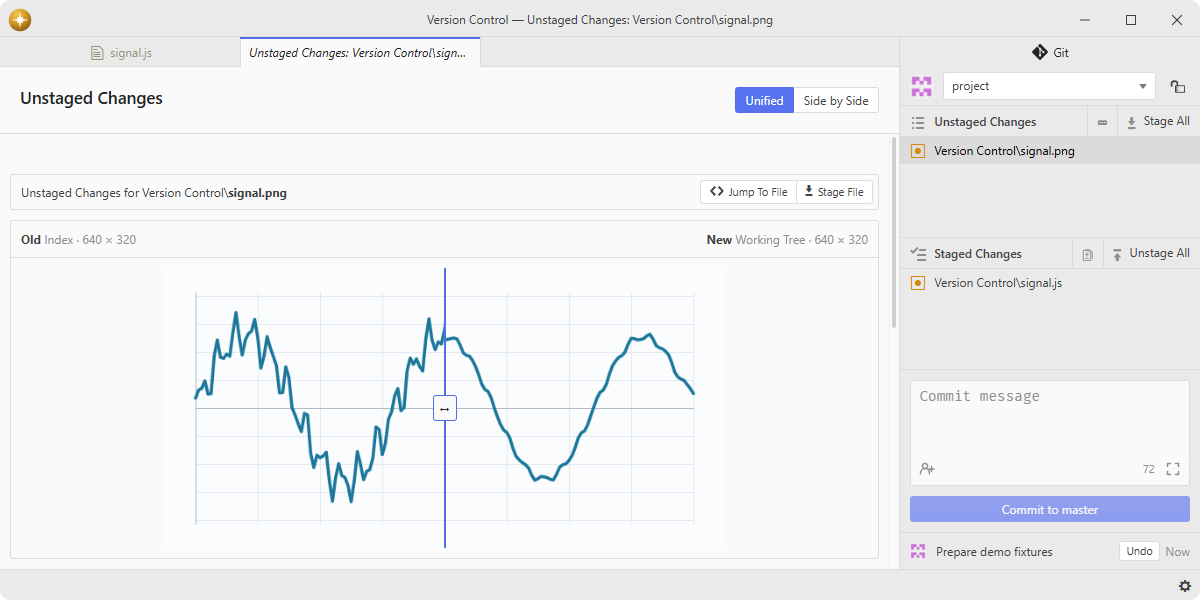
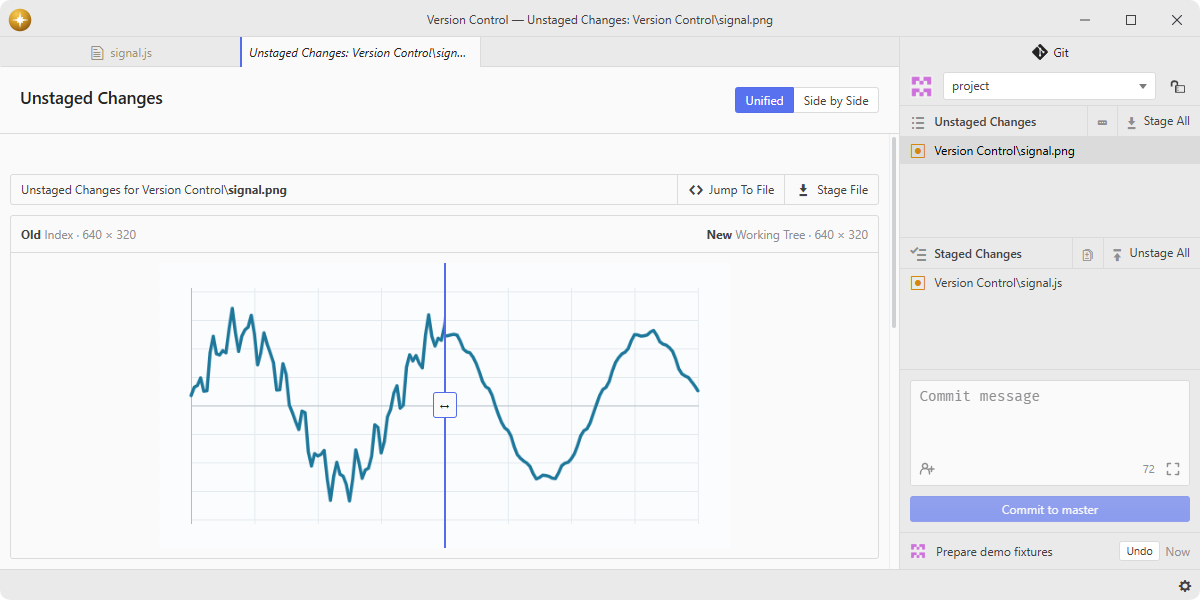
Integrate file actions into the diff header bars
Share flat action styling across file and hunk headers, preserve selected colors under Aura, and remove redundant text-button titles. Refresh package screenshots and capture metadata.

Validation: 73 focused specs, lint, formatting, dependency audit, package contents, and real hover/pressed checks in Aura and One.

diff --git a/styles/main.css b/styles/main.css
@@ -1682,7 +1682,7 @@ pre.git-panel-Message-description {
 .git-panel-FilePatchView-header {
   display: flex;
   flex-wrap: nowrap;
-  align-items: center;
+  align-items: stretch;
   border: 1px solid var(--base-border-color);
   border-radius: var(--ui-border-radius);
   font-family: var(--ui-font-family);
@@ -1691,26 +1691,23 @@ pre.git-panel-Message-description {
   background-color: var(--panel-heading-background-color);
   cursor: default;
 }
-.git-panel-FilePatchView-header .btn {
-  font-size: 0.9em;
+.git-panel-FilePatchHeaderView-button {
+  flex-shrink: 0;
+  white-space: nowrap;
 }
-.git-panel-FilePatchView-header .btn.icon-move-up::before,
-.git-panel-FilePatchView-header .btn.icon-move-down::before {
+.git-panel-FilePatchHeaderView-button.icon-move-up::before,
+.git-panel-FilePatchHeaderView-button.icon-move-down::before {
   font-size: 1em;
   margin-right: 0.5em;
 }
-.git-panel-FilePatchView-header .btn-group {
-  margin: calc(var(--ui-spacing) / 2);
-  flex-shrink: 0;
-  flex-wrap: nowrap;
-  white-space: nowrap;
-}
 .git-panel-FilePatchView-title {
   flex: 1;
+  min-width: 0;
+  line-height: 2.4;
   overflow: hidden;
   text-overflow: ellipsis;
   white-space: nowrap;
-  margin-left: var(--ui-spacing);
+  padding: 0 var(--ui-spacing);
 }
 .git-panel-FilePatchView-message {
   color: var(--syntax-text-color);
@@ -1734,7 +1731,7 @@ pre.git-panel-Message-description {
   padding: calc(var(--ui-spacing) / 1.5);
 }
 .git-panel-FilePatchView-collapseButton + .git-panel-FilePatchView-title {
-  margin-left: 0;
+  padding-left: 0;
 }
 .git-panel-FilePatchView-collapseButtonIcon:before {
   margin-right: 0;
@@ -2270,30 +2267,36 @@ pre.git-panel-Message-description {
   text-overflow: ellipsis;
   -webkit-font-smoothing: antialiased;
 }
-.git-panel-HunkHeaderView-title:hover {
-  background-color: color-mix(in srgb, var(--syntax-text-color) 4%, var(--syntax-background-color));
+.git-panel-HunkHeaderView-title:hover,
+.git-panel-DiffHeaderButton:enabled:is(:hover, :focus-visible) {
+  color: var(--git-panel-header-hover-color, var(--text-color));
+  background: var(--git-panel-header-hover-background, var(--background-color-highlight));
 }
-.git-panel-HunkHeaderView-title:active {
-  background-color: color-mix(in srgb, var(--syntax-text-color) 2%, var(--syntax-background-color));
+.git-panel-HunkHeaderView-title:active,
+.git-panel-DiffHeaderButton:enabled:active {
+  color: var(--git-panel-header-active-color, var(--text-color-selected));
+  background: var(--git-panel-header-active-background, var(--background-color-selected));
 }
-.git-panel-HunkHeaderView-stageButton,
-:is(.git-panel-HunkHeaderView-copyButton, .git-panel-HunkHeaderView-discardButton) {
+.git-panel-DiffHeaderButton {
+  height: auto;
   line-height: 1;
-  padding-left: var(--ui-spacing);
-  padding-right: var(--ui-spacing);
+  padding: 0 var(--ui-spacing);
   font-family: var(--ui-font-family);
+  font-size: inherit;
   border: none;
   border-left: inherit;
-  background-color: transparent;
+  border-radius: 0;
+  color: inherit;
+  background: transparent;
   cursor: default;
 }
-.git-panel-HunkHeaderView-stageButton:hover,
-:is(.git-panel-HunkHeaderView-copyButton, .git-panel-HunkHeaderView-discardButton):hover {
-  background-color: color-mix(in srgb, var(--syntax-text-color) 4%, var(--syntax-background-color));
+.git-panel-DiffHeaderButton:last-of-type {
+  border-top-right-radius: inherit;
+  border-bottom-right-radius: inherit;
 }
-.git-panel-HunkHeaderView-stageButton:active,
-:is(.git-panel-HunkHeaderView-copyButton, .git-panel-HunkHeaderView-discardButton):active {
-  background-color: color-mix(in srgb, var(--syntax-text-color) 2%, var(--syntax-background-color));
+.git-panel-DiffHeaderButton:focus-visible {
+  outline: 2px auto var(--accent-indicator-color);
+  outline-offset: -2px;
 }
 .git-panel-HunkHeaderView-stageButton .keystroke,
 :is(.git-panel-HunkHeaderView-copyButton, .git-panel-HunkHeaderView-discardButton) .keystroke {
@@ -2304,69 +2307,21 @@ pre.git-panel-Message-description {
   width: auto;
   vertical-align: 2px;
 }
-.git-panel-HunkHeaderView-title:hover,
-.git-panel-HunkHeaderView-stageButton:hover,
-:is(.git-panel-HunkHeaderView-copyButton, .git-panel-HunkHeaderView-discardButton):hover {
-  background-color: color-mix(in srgb, var(--syntax-text-color) 4%, var(--syntax-background-color));
-}
-.git-panel-HunkHeaderView-title:active,
-.git-panel-HunkHeaderView-stageButton:active,
-:is(.git-panel-HunkHeaderView-copyButton, .git-panel-HunkHeaderView-discardButton):active {
-  background-color: color-mix(in srgb, var(--syntax-text-color) 2%, var(--syntax-background-color));
-}
 .git-panel-HunkHeaderView--isSelected {
   color: var(--text-color-selected);
   background-color: var(--background-color-selected);
   border-color: transparent;
 }
-.git-panel-HunkHeaderView--isSelected .git-panel-HunkHeaderView-title {
+.git-panel-HunkHeaderView--isSelected .git-panel-HunkHeaderView-title:not(:hover):not(:active) {
   color: inherit;
 }
-.git-panel-HunkHeaderView--isSelected .git-panel-HunkHeaderView-title:hover,
-.git-panel-HunkHeaderView--isSelected .git-panel-HunkHeaderView-stageButton:hover,
-.git-panel-HunkHeaderView--isSelected
-  :is(.git-panel-HunkHeaderView-copyButton, .git-panel-HunkHeaderView-discardButton):hover {
-  background-color: var(--background-color-highlight);
-}
-.git-panel-HunkHeaderView--isSelected .git-panel-HunkHeaderView-title:active,
-.git-panel-HunkHeaderView--isSelected .git-panel-HunkHeaderView-stageButton:active,
-.git-panel-HunkHeaderView--isSelected
-  :is(.git-panel-HunkHeaderView-copyButton, .git-panel-HunkHeaderView-discardButton):active {
-  background-color: var(--background-color-selected);
-}
 .git-panel-FilePatchView:focus-within .git-panel-HunkHeaderView--isSelected {
+  --git-panel-header-hover-color: var(--accent-foreground-color);
+  --git-panel-header-active-color: var(--accent-foreground-color);
+  --git-panel-header-hover-background: hsl(from var(--accent-background-color) h s calc(l - 2));
+  --git-panel-header-active-background: hsl(from var(--accent-background-color) h s calc(l - 4));
   color: var(--accent-foreground-color);
   background-color: var(--accent-background-color);
-}
-.git-panel-FilePatchView:focus-within
-  .git-panel-HunkHeaderView--isSelected
-  .git-panel-HunkHeaderView-title:hover,
-.git-panel-FilePatchView:focus-within
-  .git-panel-HunkHeaderView--isSelected
-  .git-panel-HunkHeaderView-stageButton:hover,
-.git-panel-FilePatchView:focus-within
-  .git-panel-HunkHeaderView--isSelected
-  :is(.git-panel-HunkHeaderView-copyButton, .git-panel-HunkHeaderView-discardButton):hover {
-  background-color: color-mix(
-    in srgb,
-    var(--accent-background-color) 96%,
-    lch(from var(--accent-foreground-color) calc((49.44 - l) * infinity) 0 0)
-  );
-}
-.git-panel-FilePatchView:focus-within
-  .git-panel-HunkHeaderView--isSelected
-  .git-panel-HunkHeaderView-title:active,
-.git-panel-FilePatchView:focus-within
-  .git-panel-HunkHeaderView--isSelected
-  .git-panel-HunkHeaderView-stageButton:active,
-.git-panel-FilePatchView:focus-within
-  .git-panel-HunkHeaderView--isSelected
-  :is(.git-panel-HunkHeaderView-copyButton, .git-panel-HunkHeaderView-discardButton):active {
-  background-color: color-mix(
-    in srgb,
-    var(--accent-background-color) 92%,
-    lch(from var(--accent-foreground-color) calc((49.44 - l) * infinity) 0 0)
-  );
 }
 
 /* lumine-text-editor.css */

diff --git a/lib/views/file-patch-header-view.js b/lib/views/file-patch-header-view.js
@@ -6,14 +6,10 @@ import { View, h, Fragment } from "../etch/view.js";
 import cx from "classnames";
 
 import Octicon from "../lumine/octicon.js";
-import RefHolder from "../models/ref-holder.js";
 
 export default class FilePatchHeaderView extends View {
   constructor(props, children) {
     super(props, children);
-
-    this.refMirrorButton = new RefHolder();
-    this.refOpenFileButton = new RefHolder();
 
     this.initialize();
   }
@@ -23,7 +19,7 @@ export default class FilePatchHeaderView extends View {
       <header className="git-panel-FilePatchView-header" tabIndex="-1">
         {this.renderCollapseButton()}
         <span className="git-panel-FilePatchView-title">{this.renderTitle()}</span>
-        {this.renderButtonGroup()}
+        {this.renderButtons()}
       </header>
     );
   }
@@ -96,17 +92,17 @@ export default class FilePatchHeaderView extends View {
     }
   }
 
-  renderButtonGroup() {
+  renderButtons() {
     if (this.props.readOnly || this.props.surfaceKind === "commit") {
       return null;
     } else {
       return (
-        <span className="btn-group">
+        <Fragment>
           {this.renderUndoDiscardButton()}
           {this.renderMirrorPatchButton()}
           {this.renderOpenFileButton()}
           {this.renderToggleFileButton()}
-        </span>
+        </Fragment>
       );
     }
   }
@@ -117,8 +113,7 @@ export default class FilePatchHeaderView extends View {
     if (unstagedFileDocument && this.props.hasUndoHistory) {
       return (
         <button
-          className="btn icon icon-history"
-          title="Undo Discard"
+          className="git-panel-DiffHeaderButton git-panel-FilePatchHeaderView-button icon icon-history"
           onClick={this.props.undoLastDiscard}
         >
           Undo Discard
@@ -146,16 +141,17 @@ export default class FilePatchHeaderView extends View {
           };
 
     return (
-      <Fragment>
-        <button
-          ref={this.refMirrorButton.setter}
-          className={cx("btn", "icon", attrs.iconClass)}
-          title={attrs.buttonText}
-          onClick={this.props.diveIntoMirrorPatch}
-        >
-          {attrs.buttonText}
-        </button>
-      </Fragment>
+      <button
+        className={cx(
+          "git-panel-DiffHeaderButton",
+          "git-panel-FilePatchHeaderView-button",
+          "icon",
+          attrs.iconClass,
+        )}
+        onClick={this.props.diveIntoMirrorPatch}
+      >
+        {attrs.buttonText}
+      </button>
     );
   }
 
@@ -166,16 +162,12 @@ export default class FilePatchHeaderView extends View {
     }
 
     return (
-      <Fragment>
-        <button
-          ref={this.refOpenFileButton.setter}
-          className="btn icon icon-code git-panel-FilePatchHeaderView-jumpToFileButton"
-          title={buttonText}
-          onClick={this.props.openFile}
-        >
-          {buttonText}
-        </button>
-      </Fragment>
+      <button
+        className="git-panel-DiffHeaderButton git-panel-FilePatchHeaderView-button icon icon-code git-panel-FilePatchHeaderView-jumpToFileButton"
+        onClick={this.props.openFile}
+      >
+        {buttonText}
+      </button>
     );
   }
 
@@ -193,8 +185,12 @@ export default class FilePatchHeaderView extends View {
 
     return (
       <button
-        className={cx("btn", "icon", attrs.buttonClass)}
-        title={attrs.buttonText}
+        className={cx(
+          "git-panel-DiffHeaderButton",
+          "git-panel-FilePatchHeaderView-button",
+          "icon",
+          attrs.buttonClass,
+        )}
         onClick={this.props.toggleFile}
       >
         {attrs.buttonText}

diff --git a/spec/image-patch-layout-spec.js b/spec/image-patch-layout-spec.js
@@ -266,7 +266,9 @@ describe("image previews in mounted patch layouts", () => {
           expect(img.getBoundingClientRect().height).toBeLessThanOrEqual(img.naturalHeight + 0.01);
         }
       }
-      const stageButton = block.querySelector('[title="Stage File"]');
+      const stageButton = block.querySelector(
+        ".git-panel-FilePatchHeaderView-button.icon-move-down",
+      );
       expect(stageButton).not.toBeNull();
       await flushViews(() => stageButton.click());
       expect(view.props.toggleFile).toHaveBeenCalledOnceWith(filePatch);
@@ -299,12 +301,12 @@ describe("image previews in mounted patch layouts", () => {
                 ["image.png", { type: "commit", revision: "selected-commit" }],
               ],
         );
-        expect(view.element.querySelector('[title="Unstage File"]') !== null).toBe(
-          surface === "staged",
-        );
         expect(
-          view.element.querySelector(".git-panel-FilePatchView-header .btn-group") === null,
-        ).toBe(surface === "commit");
+          view.element.querySelector(".git-panel-FilePatchHeaderView-button.icon-move-up") !== null,
+        ).toBe(surface === "staged");
+        expect(view.element.querySelector(".git-panel-FilePatchHeaderView-button") === null).toBe(
+          surface === "commit",
+        );
       });
     }
 

diff --git a/lib/views/hunk-header-view.js b/lib/views/hunk-header-view.js
@@ -45,7 +45,7 @@ export default class HunkHeaderView extends View {
       <Fragment>
         {editable && (
           <button
-            className="git-panel-HunkHeaderView-stageButton"
+            className="git-panel-DiffHeaderButton git-panel-HunkHeaderView-stageButton"
             onClick={this.props.toggleSelection}
             onMouseDown={theBuckStopsHere}
           >
@@ -54,7 +54,7 @@ export default class HunkHeaderView extends View {
         )}
         <button
           ref={this.refCopyButton.setter}
-          className="icon-clippy git-panel-HunkHeaderView-copyButton"
+          className="git-panel-DiffHeaderButton icon-clippy git-panel-HunkHeaderView-copyButton"
           attributes={{ "aria-label": this.props.copySelectionLabel }}
           onClick={this.copySelection}
           onMouseDown={theBuckStopsHere}
@@ -69,7 +69,7 @@ export default class HunkHeaderView extends View {
           <Fragment>
             <button
               ref={this.refDiscardButton.setter}
-              className="icon-trashcan git-panel-HunkHeaderView-discardButton"
+              className="git-panel-DiffHeaderButton icon-trashcan git-panel-HunkHeaderView-discardButton"
               onClick={this.props.discardSelection}
               onMouseDown={theBuckStopsHere}
             />

diff --git a/spec/read-only-changes-spec.js b/spec/read-only-changes-spec.js
@@ -156,7 +156,7 @@ describe("shared read-only diff views", () => {
     }
     expect(view.element.querySelector(".git-panel-HunkHeaderView-stageButton")).toBeNull();
     expect(view.element.querySelector(".git-panel-FilePatchView-metaButton")).toBeNull();
-    expect(view.element.querySelector('button[title="Unstage File"]')).toBeNull();
+    expect(view.element.querySelector(".git-panel-FilePatchHeaderView-button")).toBeNull();
     const file = controller().props.multiFilePatch.getFilePatches()[0];
     await controller().toggleRows(new Set([1]), "line");
     await controller().toggleFile(file);

diff --git a/lib/views/multi-file-patch-view.js b/lib/views/multi-file-patch-view.js
@@ -771,7 +771,6 @@ export default class MultiFilePatchView extends View {
       isPartiallyStaged={this.props.isPartiallyStaged}
       hasUndoHistory={this.props.hasUndoHistory}
       hasMultipleFileSelections={this.props.hasMultipleFileSelections}
-      tooltips={this.props.tooltips}
       undoLastDiscard={() => this.undoLastDiscardFromButton(filePatch)}
       diveIntoMirrorPatch={() => this.props.diveIntoMirrorPatch(filePatch)}
       openFile={() => this.didOpenFile({ selectedFilePatch: filePatch })}

diff --git a/spec/full-width-diff-headers-spec.js b/spec/full-width-diff-headers-spec.js
@@ -311,8 +311,7 @@ describe("full-width diff controls", () => {
       const selectors = [
         ".git-panel-FilePatchView-header",
         ".git-panel-FilePatchView-title",
-        ".git-panel-FilePatchView-header .btn-group",
-        ".git-panel-FilePatchView-header .btn",
+        ".git-panel-FilePatchHeaderView-button",
         ".git-panel-HunkHeaderView",
         ".git-panel-HunkHeaderView-title",
         ".git-panel-HunkHeaderView-stageButton",

diff --git a/spec/file-patch-header-view-spec.js b/spec/file-patch-header-view-spec.js
@@ -21,7 +21,9 @@ describe("file patch headers", () => {
       expect(view.element.querySelector(".git-panel-FilePatchView-title").textContent).toContain(
         "example.txt",
       );
-      expect(view.element.querySelectorAll(".btn-group").length).toBe(itemType === "file" ? 1 : 0);
+      expect(view.element.querySelectorAll(".git-panel-FilePatchHeaderView-button").length).toBe(
+        itemType === "file" ? 2 : 0,
+      );
     });
   }
 });
